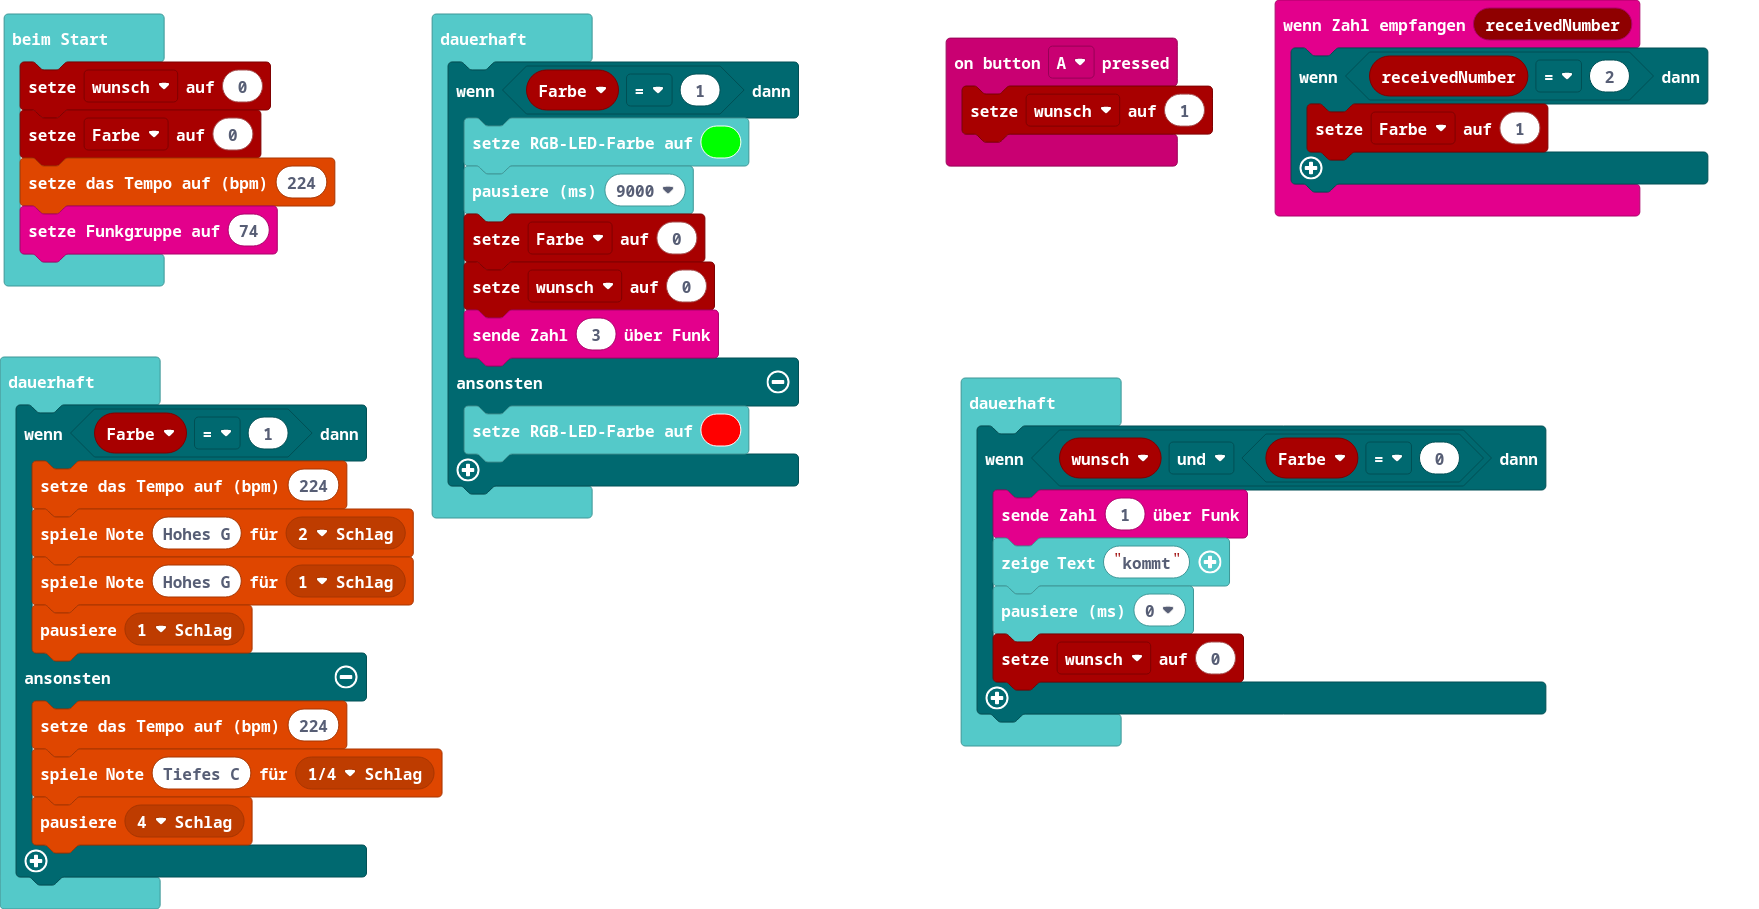
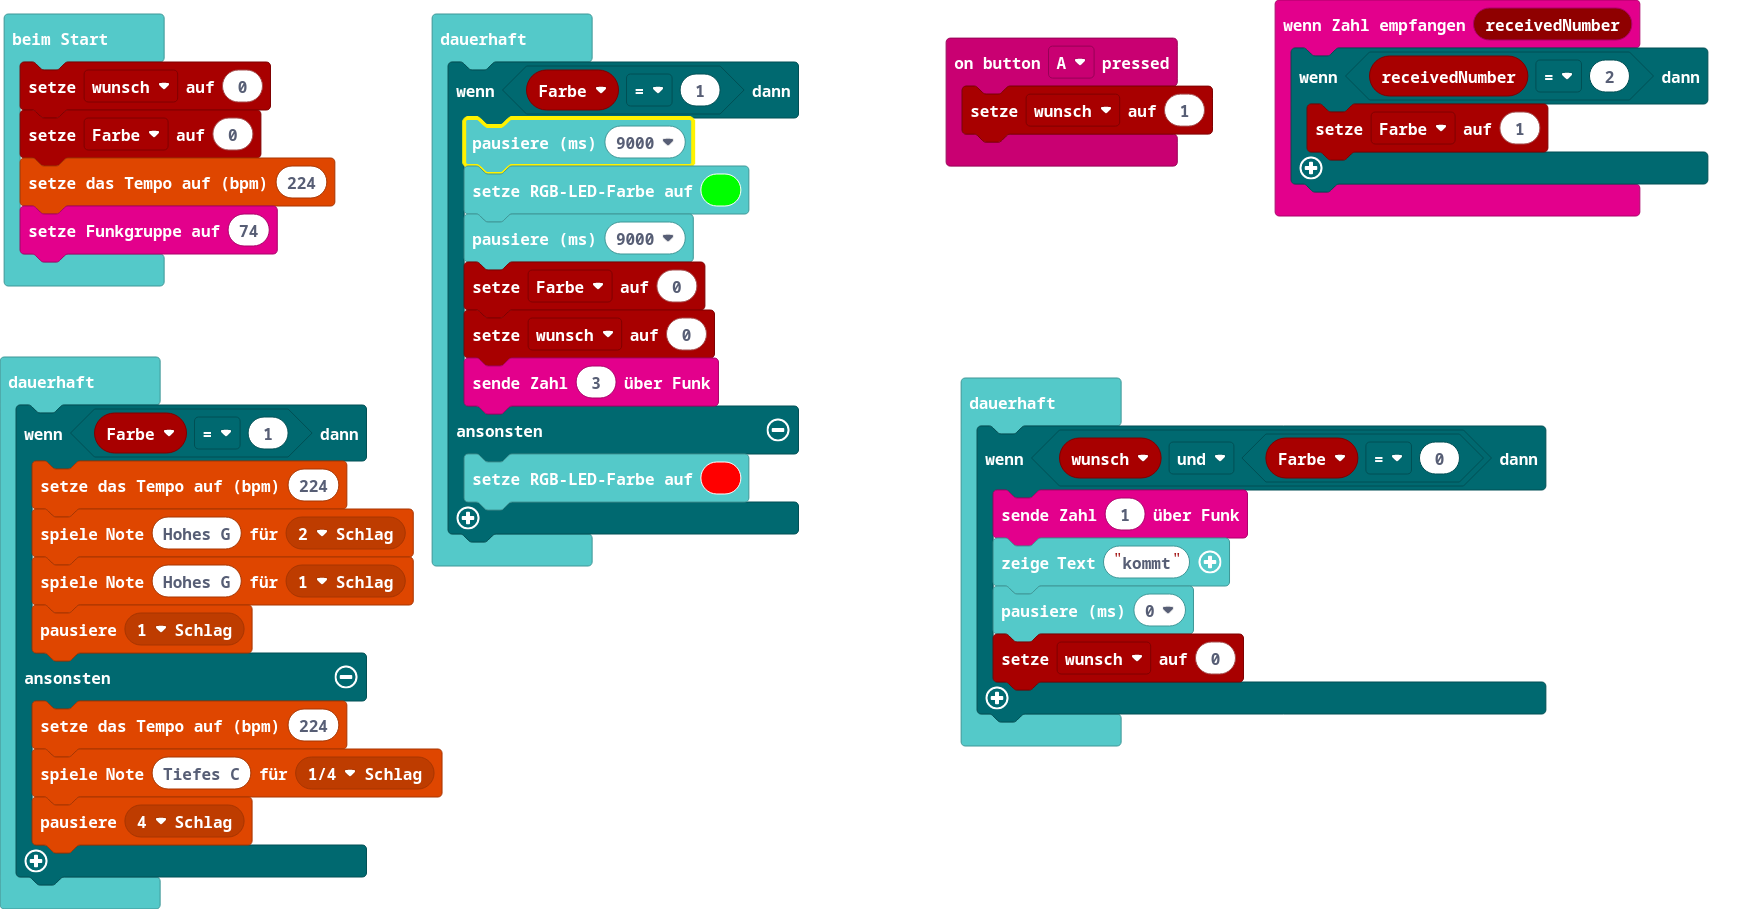
Aktualisiere main.blocks, main.ts

Changed region(s): [[0.2456, 0.1232, 0.4605, 0.6469]]

diff --git a/main.ts b/main.ts
@@ -14,6 +14,7 @@ music.setTempo(224)
 radio.setGroup(74)
 basic.forever(function () {
     if (Farbe == 1) {
+        basic.pause(9000)
         basic.setLedColor(0x00ff00)
         basic.pause(9000)
         Farbe = 0
